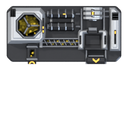
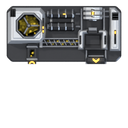
Arte 2.0 (em andamento)
Claude-Session: https://claude.ai/code/session_01WinUi4wzHz3zWHUSicAx1P

diff --git a/tools/blender/parts/bs_paiol.py b/tools/blender/parts/bs_paiol.py
@@ -410,6 +410,26 @@ def _roof(M, T, n, fam):
             _bay(f"bay{k}", n, cx, cy, w, h, M, X, tags)
         else:
             _hatch(f"hatch{k}", n, kind, cx, cy, w, h, M, X, tags)
+    _hatch_well(n, K, tags)
+
+
+def _hatch_well(n, K, tags):
+    """Poco escuro CONTINUO atras da coluna de escotilhas (2x2 / 3x3): os recessos chanfrados de cada escotilha
+    deixavam cunhas de 1-2 px da placa pintada entre os cantos (branco no casco branco). Um retangulo escuro da borda
+    de cima da escotilha de cima ate a de baixo (cantos de baixo com o chanfro do recesso) fecha o vao com o mesmo
+    escuro dos outros vaos entre paineis da tampa. Cantos de cima retos: emendam no vao escuro do aro / entre placas."""
+    hs = [r for r in RELIEF[n] if r[0] != "baia"]
+    if len(hs) < 2:
+        return
+    hs = sorted(hs, key=lambda r: r[2])
+    cx, w = hs[0][1], max(r[3] for r in hs)
+    if any(abs(r[1] - cx) > 1e-6 for r in hs):
+        return
+    top = hs[0][2] - hs[0][4] / 2 - 0.035
+    bot = hs[-1][2] + hs[-1][4] / 2 + 0.035
+    cb = 0.20 * min(hs[-1][3], hs[-1][4]) + 0.02       # chanfro do recesso da escotilha de baixo
+    poly = _crect(n, cx - w / 2 - 0.035, top, cx + w / 2 + 0.035, bot, 0.0, bl=cb, br=cb)
+    B.loft("hatch_well", poly, poly, ZT - 0.006, ZT + 0.006, K, bevel=0.0, tags=tags)
 
 
 def roof_post(P, layer, path, variant=None, **kw):
@@ -523,38 +543,65 @@ def _lerp_hsv(a, b, t):
     return (r * 255, g * 255, bb * 255)
 
 
+GAUGE_VMAX = 0.89                     # teto do VALOR (HSV) do corpo dos segmentos: ~227 (le como vidro aceso, nao como
+#                                       bloco de interface chapado; o reflexo de 1 px em cima pode passar disso)
+
+
 def gauge_color(f):
-    """Cor do nivel f = k / N (spec: f <= 0,5 low -> high, f > 0,5 high -> full), fora da chave de pintura."""
+    """Cor do nivel f = k / N (spec: f <= 0,5 low -> high, f > 0,5 high -> full), fora da chave de pintura, com o valor
+    limitado a GAUGE_VMAX (o lima de f ~ 0,6 e o verde cheio deixam de ser blocos chapados no casco branco)."""
+    import colorsys
     G = LG.GAUGE
     if f <= 0.5:
         c = _lerp_hsv(G["low"], G["high"], f / 0.5)
     else:
         c = _lerp_hsv(G["high"], G["full"], (f - 0.5) / 0.5)
+    h, s, v = colorsys.rgb_to_hsv(*(x / 255.0 for x in c))
+    c = tuple(x * 255 for x in colorsys.hsv_to_rgb(h, s, min(v, GAUGE_VMAX)))
     return LG.safe_rgb(c)
 
 
+def zero_rgb_under_alpha0(img):
+    """RGB = 0 onde alfa = 0 (sem franja de cor 'suja' no filtro bilinear do jogo)."""
+    a = np.asarray(img.convert("RGBA")).copy()
+    a[a[..., 3] == 0] = 0
+    return Image.fromarray(a, "RGBA")
+
+
+def _seg_shade(rw, rh, S4):
+    """Fator de luz (rh x rw, 0..~1,05) de UM segmento aceso a S4x: vidro aceso por tras, nao bloco chapado. Queda
+    vertical (mais claro em cima, ~0,78 embaixo), bisel interno de 1 px nas laterais (esquerda 0,86, direita 0,80) e
+    1 px mais escuro embaixo (0,70). O reflexo de cima e desenhado a parte."""
+    t = (np.arange(rh, dtype=np.float32) + 0.5) / max(1, rh)
+    f = (1.04 - 0.26 * t)[:, None] * np.ones((1, rw), np.float32)
+    f[:, :S4] *= 0.86
+    f[:, rw - S4:] *= 0.80
+    f[rh - S4:, :] = np.minimum(f[rh - S4:, :], 0.70)
+    return f
+
+
 def gauge(P, layer, px, level=1, **kw):
-    """Segmentos acesos 1..level (de baixo para cima) na cor do nivel: corpo do LED, reflexo de 1 px em cima e 1 px
-    mais escuro embaixo (todas as cores derivadas passam por safe_rgb), brilho fraco nos vaos (blur PRE-multiplicado:
-    a cor do brilho e a dos LEDs) e paint_safe() no fim: nenhum pixel na chave de pintura."""
+    """Segmentos acesos 1..level (de baixo para cima) na cor do nivel (valor <= GAUGE_VMAX): cada segmento com queda
+    vertical de luz, bisel interno nas laterais, 1 px mais escuro embaixo e o reflexo de 1 px em cima (vidro aceso),
+    brilho fraco nos vaos (blur PRE-multiplicado: a cor do brilho e a dos LEDs) e paint_safe() no fim: nenhum pixel
+    na chave de pintura; RGB = 0 sob alfa 0."""
     n = P["sub"]
     gx, gy, gw, gh = LAYOUT[n]["gauge_rect"]
     N = LAYOUT[n]["levels"]
     w, h = px
     S4 = SS_PIL
-    col = gauge_color(level / N)
-    core = col
-    hi = LG.safe_rgb(tuple(c + (255 - c) * 0.45 for c in col))
-    lo = LG.safe_rgb(tuple(c * 0.80 for c in col))
-    big = Image.new("RGBA", (w * S4, h * S4), (0, 0, 0, 0))
-    dr = ImageDraw.Draw(big)
+    col = np.array(gauge_color(level / N), np.float32)
+    hi = np.array(LG.safe_rgb(tuple(c + (255 - c) * 0.40 for c in col)), np.float32)
+    arr = np.zeros((h * S4, w * S4, 4), np.float32)
     for i, (x0, y0, x1, y1) in enumerate(_segments(gw, gh, N)):
         if i >= level:
             break
-        X0, Y0, X1, Y1 = x0 * S4, y0 * S4, x1 * S4, y1 * S4
-        dr.rectangle([X0, Y0, X1 - 1, Y1 - 1], fill=core + (255,))
-        dr.rectangle([X0, Y1 - S4, X1 - 1, Y1 - 1], fill=lo + (255,))
-        dr.rectangle([X0 + S4, Y0, X1 - 1 - S4, Y0 + S4 - 1], fill=hi + (255,))
+        X0, Y0, X1, Y1 = (int(round(v * S4)) for v in (x0, y0, x1, y1))
+        f = _seg_shade(X1 - X0, Y1 - Y0, S4)
+        arr[Y0:Y1, X0:X1, :3] = col[None, None, :] * f[..., None]
+        arr[Y0:Y0 + S4, X0 + S4:X1 - S4, :3] = hi[None, None, :]          # reflexo do vidro (1 px)
+        arr[Y0:Y1, X0:X1, 3] = 255
+    big = Image.fromarray(np.clip(arr, 0, 255).astype(np.uint8), "RGBA")
     seg = big.resize((w, h), Image.LANCZOS)
     glow = LG.premul_blur(seg, 1.1)
     ga = np.asarray(glow, dtype=np.float32).copy()
@@ -562,7 +609,7 @@ def gauge(P, layer, px, level=1, **kw):
     out = Image.fromarray(ga.astype(np.uint8), "RGBA")
     out.alpha_composite(seg)
     out, _ = LG.paint_safe(out)
-    return out
+    return zero_rgb_under_alpha0(out)
 
 
 def digit(P, layer, px, variant="0", **kw):
@@ -584,7 +631,7 @@ def digit(P, layer, px, variant="0", **kw):
     ga[..., 3] *= 0.5
     out = Image.fromarray(ga.astype(np.uint8), "RGBA")
     out.alpha_composite(seg)
-    return out
+    return zero_rgb_under_alpha0(out)
 
 
 # ============================================================================ icone
